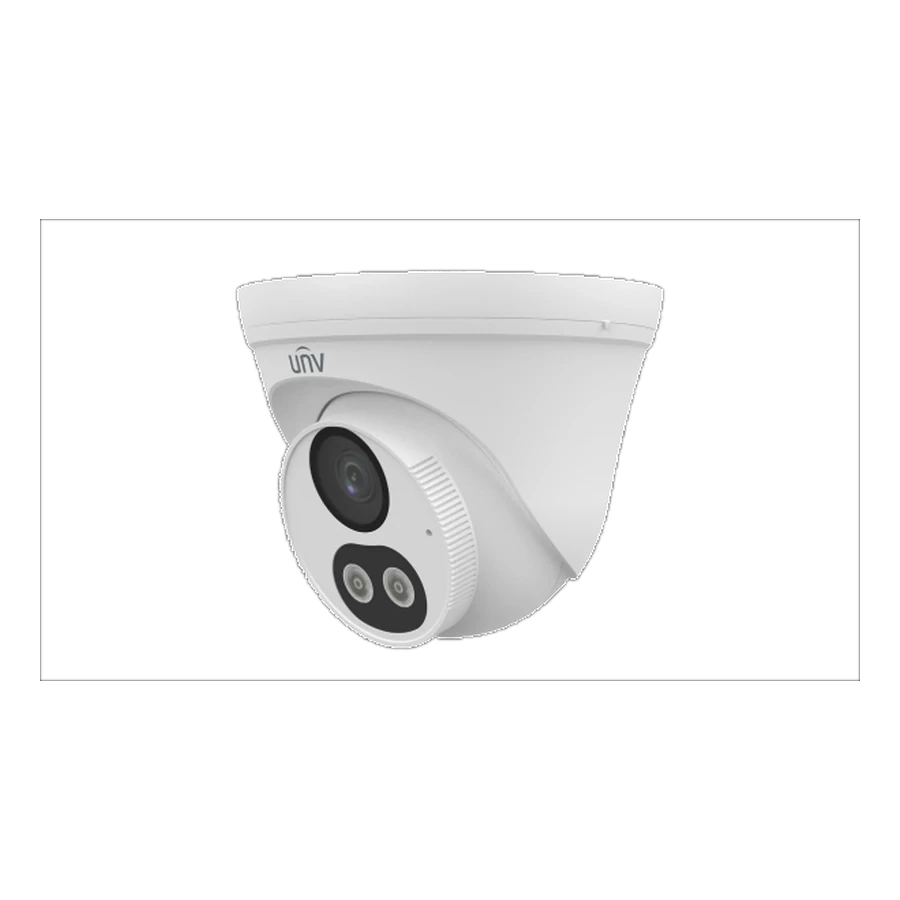
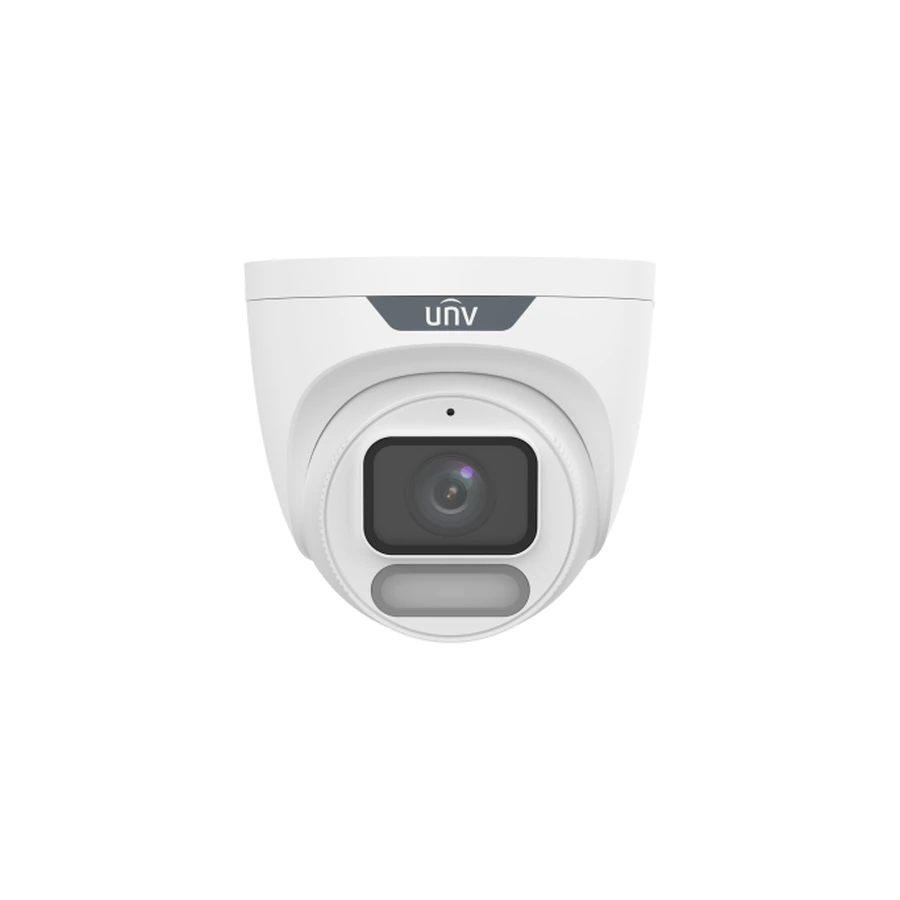
feat: ampliar contenido CCTV y sustituir foto Uniview

diff --git a/tests/privacy-seo-browser.py b/tests/privacy-seo-browser.py
@@ -5,7 +5,7 @@ from urllib.parse import urlparse, parse_qs
 from playwright.sync_api import sync_playwright
 BASE=os.environ.get('RAPID_TEST_BASE','http://127.0.0.1:4173').rstrip('/')
 OUT=Path('artifacts');OUT.mkdir(exist_ok=True)
-routes=['/aviso-legal/','/privacidad/','/cookies/','/guias/','/guias/alarmas-sin-cuotas/','/guias/vision-nocturna-y-grabacion/','/guias/seguridad-segunda-residencia/','/guias/presupuesto-instalacion/','/contacto/']
+routes=['/aviso-legal/','/privacidad/','/cookies/','/guias/','/guias/alarmas-sin-cuotas/','/guias/vision-nocturna-y-grabacion/','/guias/seguridad-segunda-residencia/','/guias/presupuesto-instalacion/','/guias/camaras-exteriores-noche/','/guias/grabacion-nvr-almacenamiento/','/guias/camaras-4g-solares/','/contacto/']
 checks=[];errors=[];outbound=[];set_cookies=[]
 with sync_playwright() as p:
     launch={'executable_path':os.environ['RAPID_CHROMIUM']} if os.environ.get('RAPID_CHROMIUM') else {}
@@ -46,7 +46,7 @@ with sync_playwright() as p:
     assert len(intercepted)==1
     assert 'Municipio o pueblo: Lerma' in parse_qs(urlparse(intercepted[0]).query).get('text',[''])[0]
     nojs=browser.new_context(java_script_enabled=False,viewport={'width':390,'height':844});q=nojs.new_page()
-    q.goto(BASE+'/guias/');assert q.locator('.guide-card').count()==4
+    q.goto(BASE+'/guias/');assert q.locator('.guide-card').count()==7
     q.goto(BASE+'/cookies/');assert q.locator('h1').inner_text()=='Política de cookies'
     assert not errors,errors
     browser.close()

diff --git a/docs/cierre-contenido-seo-20261009.md b/docs/cierre-contenido-seo-20261009.md
@@ -1,0 +1,9 @@
+# Cierre de contenido SEO y fotografía Uniview · 9 octubre 2026
+
+Se sustituye la fotografía Uniview anterior por una imagen oficial de producto ColorHunter sobre fondo blanco, normalizada al mismo lienzo que las referencias de Hikvision y Dahua. No se modifica ninguna de las otras dos fotografías.
+
+Se amplía el clúster editorial de cámaras de cuatro a siete guías. Nuevas guías: cámaras exteriores y visión nocturna, grabación/NVR/almacenamiento y cámaras 4G/solares. Se enlazan desde los bloques de guías compactos que aparecen en servicios y páginas municipales, sin crear combinaciones marca × pueblo ni nuevas páginas locales automáticas.
+
+Objetivo SEO: aumentar contenido técnico útil y enlaces temáticos alrededor de videovigilancia sin intentar ocultar la similitud de las 3.797 plantillas municipales. El principal pendiente antes de indexar sigue siendo contenido/operativa local verificada por tandas, además de dominio final, cobertura/oferta, datos legales completos y derechos de fotografías.
+
+No se activa indexación, no se cambia el dominio, el teléfono ni la cobertura declarada.
